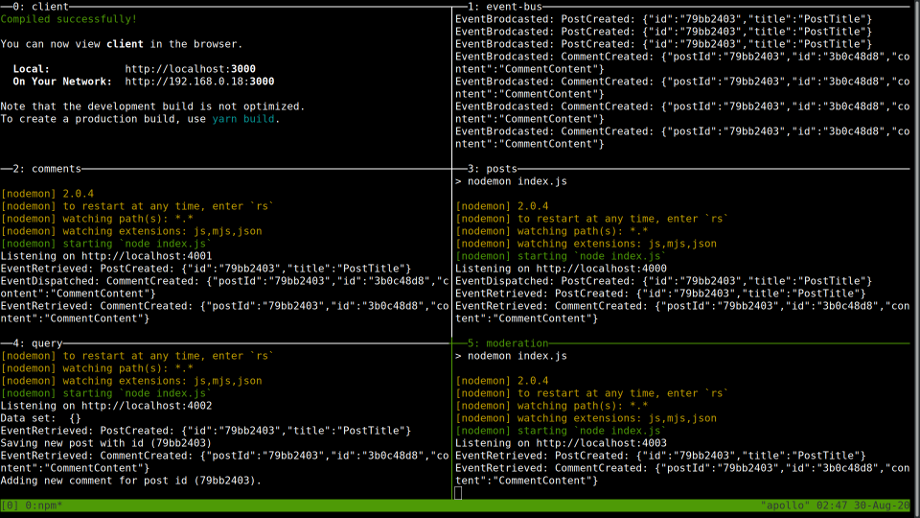
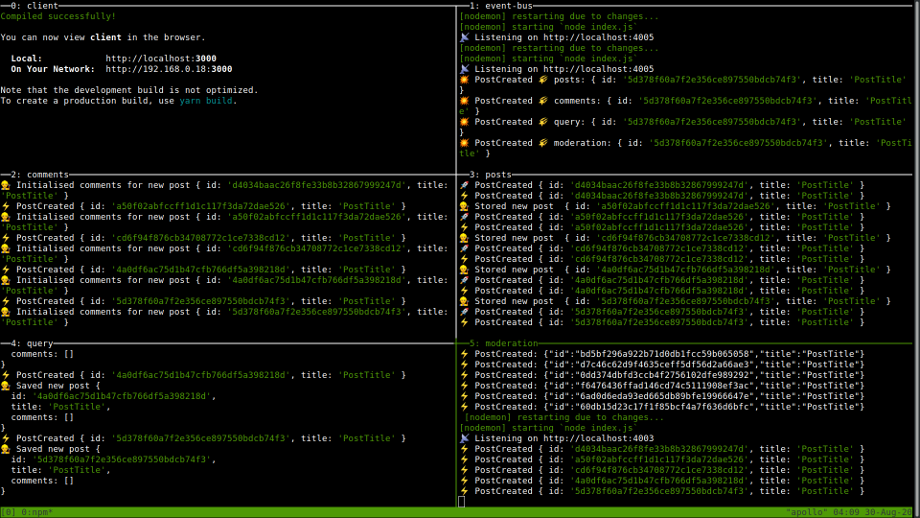
Use emoji to help with logging readability.

diff --git a/query/index.js b/query/index.js
@@ -9,35 +9,34 @@ app.use(cors());
 const commentsByPostId = {};
 
 app.get('/posts', (req, res) => {
-  console.log('Data set: ', JSON.stringify(commentsByPostId));
   res.send({data: commentsByPostId});
 });
 
 app.get('/posts/:id', (req, res) => {
   const post = commentsByPostId[req.params.id];
-  console.log('Data set: ', JSON.stringify(post));
   res.send(post);
 });
 
 app.post('/events', (req, res) => {
-  console.log(`EventRetrieved: ${req.body.type}: ${JSON.stringify(req.body.data)}`);
+  console.log(`⚡ ${req.body.type}`, req.body.data);
   const { type, data } = req.body;
 
   if (type === 'PostCreated') {
     const { id, title } = data;
-    console.log(`Saving new post with id (${id})`);
     commentsByPostId[id] = { id, title, comments: [] };
+    console.log(`👷 Saved new post`, commentsByPostId[id]);
 
   } else if (type === 'CommentCreated') {
     const {id, content, postId } = data;
-    console.log(`Adding new comment for post id (${postId}).`);
     const post = commentsByPostId[postId];
-    post.comments.push({id, content})
+    const comment = {id, content}
+    post.comments.push(comment)
+    console.log(`👷 Saved new comment for post id (${postId})`, comment);
   }
 
   res.send({});
 });
 
 app.listen(4002, () => {
-  console.log('Listening on http://localhost:4002');
+  console.log('📡 Listening on http://localhost:4002');
 });

diff --git a/comments/index.js b/comments/index.js
@@ -12,7 +12,7 @@ const db = {};
 const commentRepository = new CommentRepository(db);
 
 app.get('/posts/comments', (req, res) => {
-  res.send(db);
+  res.send({data: db});
 });
 
 app.get('/posts/:id/comments', (req, res) => {
@@ -30,16 +30,16 @@ app.post('/posts/:id/comments', ({ params, body }, res) => {
 app.post('/events', (req, res) => {
   const type = req.body.type;
   const data = req.body.data;
-  console.log(`EventRetrieved: ${type}: ${JSON.stringify(data)}`);
+  console.log(`⚡ ${type}`, data);
 
   if (type === 'PostCreated') {
     db[data.id] = [];
-    console.log('Initialized comments for new post.')
+    console.log('👷 Initialised comments for new post', data)
   }
 
   res.send({});
 });
 
 app.listen(4001, () => {
-  console.log('Listening on http://localhost:4001');
+  console.log('📡 Listening on http://localhost:4001');
 });

diff --git a/posts/index.js b/posts/index.js
@@ -20,15 +20,16 @@ app.post('/posts', (req, res) => {
   const { title } = req.body;
   const post = { id, title };
   posts[id] = post;
+  console.log('👷 Stored new post ', post)
 
   EventBus.postCreated(post);
   res.status(201).send(post);
 });
 
 app.post('/events', (req, res) => {
-  console.log(`EventRetrieved: ${req.body.type}: ${JSON.stringify(req.body.data)}`)
+  console.log(`⚡ ${req.body.type}`, req.body.data)
   res.send({});
 })
 app.listen(4000, () => {
-  console.log('Listening on http://localhost:4000');
+  console.log('📡 Listening on http://localhost:4000');
 });

diff --git a/event-bus/index.js b/event-bus/index.js
@@ -11,12 +11,12 @@ app.post('/events', (req, res) => {
 
   for (const service in LISTENERS) {
     axios.post(LISTENERS[service], event);
-    console.log(`EventBrodcasted: ${event.type}: ${JSON.stringify(event.data)}`)
+    console.log(`💥 ${event.type} 🌠 ${service}:`, event.data)
   }
 
   res.send({ status: 'OK' });
 });
 
 app.listen(4005,() => {
-  console.log('Listening on http://localhost:4005')
+  console.log('📡 Listening on http://localhost:4005')
 });

diff --git a/comments/comment-repository.js b/comments/comment-repository.js
@@ -9,10 +9,12 @@ class CommentRepository {
     const id = randomBytes(16).toString('hex');
     const { content } = data;
 
-    const comment = { id, postId, content, status: 'pending-moderation' };
+    const comment = { id, postId, content, 'moderation-status': 'pending' };
     const comments = this.db[postId];
     comments.push(comment);
     this.db[postId] = comments;
+
+    console.log('👷 Stored new comment ', comment)
 
     return comment;
   }

diff --git a/moderation/index.js b/moderation/index.js
@@ -6,9 +6,9 @@ const app = express()
 app.use(bodyParser.json())
 
 app.post('/events', (req, res) =>{
-  console.log(`EventRetrieved: ${req.body.type}: ${JSON.stringify(req.body.data)}`);
+  console.log(`⚡ ${req.body.type}`, req.body.data);
 })
 
 app.listen(4003, () => {
-  console.log('Listening on http://localhost:4003');
+  console.log('📡 Listening on http://localhost:4003');
 });

diff --git a/posts/event-bus.js b/posts/event-bus.js
@@ -9,6 +9,6 @@ module.exports = class {
 
   static dispatch(type, data) {
     axios.post(this.endpoint, { type, data });
-    console.log(`EventDispatched: ${type}: ${JSON.stringify(data)}`);
+    console.log(`🚀 ${type}`, data);
   }
 };

diff --git a/comments/event-bus.js b/comments/event-bus.js
@@ -9,6 +9,6 @@ module.exports = class {
 
   static dispatch(type, data) {
     axios.post(this.endpoint, { type, data });
-    console.log(`EventDispatched: ${type}: ${JSON.stringify(data)}`)
+    console.log(`🚀 ${type}`, data);
   }
 };
